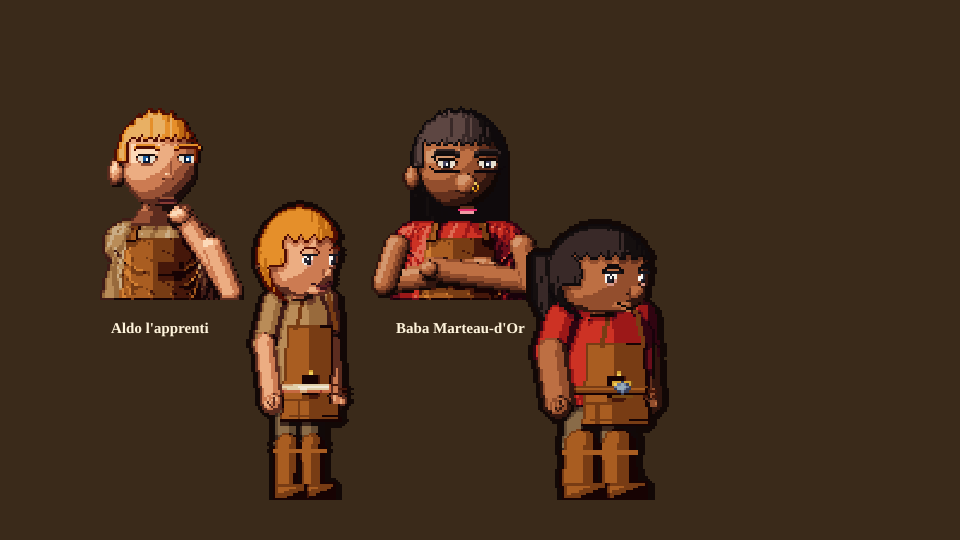
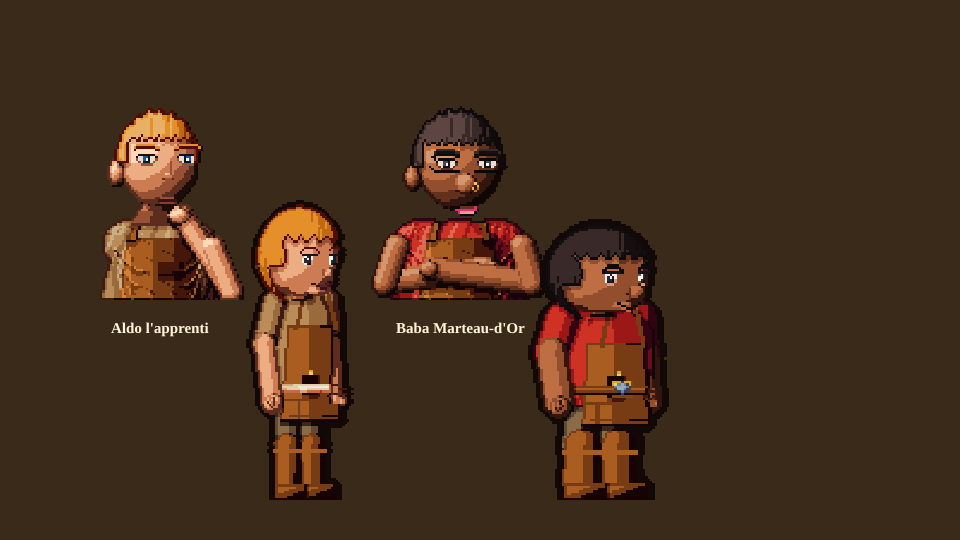
Baba Marteau-d'Or aux cheveux courts ; planche 12 validée
Claude-Session: https://claude.ai/code/session_018kbaP56NxxNMUzmj9EfKBC

Changed region(s): [[0.4062, 0.2074, 0.5312, 0.4148], [0.5312, 0.4444, 0.5938, 0.5926]]

diff --git a/src/corpsHD.js b/src/corpsHD.js
@@ -47,7 +47,7 @@ const FIGURANTS = {
   pillarde: { race: 'humain', nom: 'Pillarde', feminin: true, costume: 'passeur', habit: 0x8a4a2a, cheveux: 0x1a1410, cape: 0x6a4a30, peau: 3, niveau: 1, fache: true },
   // (v0.82, étape 10b) les forgerons du comptoir
   aldo: { race: 'humain', nom: "Aldo l'apprenti", costume: 'forgeron', habit: 0x8a6a4a, cheveux: 0xa86a2a, coiffure: 'court', peau: 1, niveau: 0, buste: true },
-  baba: { race: 'nain', nom: "Baba Marteau-d'Or", feminin: true, costume: 'forgeron', habit: 0x8a2a2a, cheveux: 0x141010, coiffure: 'long', peau: 3, niveau: 1, buste: true, marques: ['khol', 'anneauNez'] },
+  baba: { race: 'nain', nom: "Baba Marteau-d'Or", feminin: true, costume: 'forgeron', habit: 0x8a2a2a, cheveux: 0x141010, coiffure: 'court', peau: 3, niveau: 1, buste: true, marques: ['khol', 'anneauNez'] },
   mendiant: { race: 'humain', nom: 'Le mendiant', costume: 'mendiant', habit: 0x6a6252, cheveux: 0x8a8a80, cape: 0x4a4236, barbe: 'pleine', niveau: 0 },
 };
 

diff --git a/docs/game-design.md b/docs/game-design.md
@@ -333,7 +333,7 @@ Chaque étape doit donner une version **jouable**.
 | v 0.79 | **Les nouvelles provisions dans le jeu** (planche 10 validée le 18/10) | Ration, gourde, flèches, potion, bandages, torche, corde, antidote, cape chaude, bouclier, amulette, fer, cuir, bois et fil d'or sont dessinés en 32 × 32 et affichés à la taille des anciennes icônes : deux fois plus de détails partout (étals, comptoir, commandes, récits). Les armes gardent leur dessin. |
 | v 0.80 | **Des repères peints en pixel art** (planche 11 v2 validée le 18/10) | Les repères au loin des récits ne sont plus des silhouettes pâles mais de vrais dessins dont on voit les matériaux (`reperesHD.js`) : la pyramide en gradins de blocs de grès, son pyramidion doré, son obélisque gravé et ses colonnes ; le fort des orcs en rondins taillés en pointe, liés de fer, avec sa tour de guet, sa bannière rouge au crâne, des crânes sur des piques et des torches ; les Mines Rouges avec leur paroi sombre veinée de minerai qui luit, l'échafaudage, la poulie et son seau, les chariots de minerai, les lanternes ; la porte de Khaz-Durim en bronze et runes d'or entre deux rois nains de pierre, avec ses braseros ; le moulin de pierre et ses ailes de toile ; la chaumière en torchis et colombages, au toit de chaume, et son jardin de simples ; l'abbaye, sa rosace et son clocher ; les meules de foin et une porte ronde de hobbit ; le vieux chêne creux et la cabane de rondins du bûcheron (hache plantée dans la souche) ; le pont de moellons, sa mousse, le panneau du péage et des os sous l'arche ; les totems peints, à plumes, et la hutte de peaux ; le chevalement de mine, sa roue, son câble, l'entrée étayée et le wagonnet ; les arches de marbre et l'arbre argenté ; le lac, son ponton et sa barque ; les tours de cristal d'Opale reliées par des ponts ; la tour de la Bibliothèque et ses livres qui volent ; le squelette géant à demi enfoui ; la tour de guet naine enneigée ; le cairn, ses fanions de prière et le chariot renversé. Le fort et les mines se détachent maintenant du fond rouge. |
 | v 0.81 | **Elfes majestueux, mages plus riches, lieux qui font peur** (planche 11 v3 validée le 18/10, sauf deux retouches faites en v0.82) | Demandes du 18/10. **Sanctuaire des Elfes façon Lothlórien** : un mallorn géant au tronc d'argent, trois étages de feuilles d'or en touffes, un talan blanc et sa maison aux fenêtres de lumière, l'escalier qui tourne autour du tronc et ses lanternes, des lueurs bleues qui flottent, d'autres mallorns autour. **Lac des Lunes façon Fondcombe** : la vallée entre des falaises à strates et leurs sapins, trois cascades, la maison en terrasses de pierre claire aux fenêtres en arc dorées, deux tours fines, un pont en arches, des arbres d'automne. **Cité d'Opale** : un rempart de cristal et sa porte d'or, une forêt de flèches et de coupoles, la grande tour et son anneau d'or qui flotte, des éclats de cristal suspendus, des ponts de lumière. **Bibliothèque** : la grande tour et ses contreforts, deux tourelles, l'escalier qui s'enroule, un livre géant ouvert qui flotte au sommet, des rochers enchaînés, des piles de livres ; les livres qui volent ont maintenant une couverture et des pages. **Terres Désolées** : trois carcasses (le grand squelette, une petite cage thoracique, un crâne cornu sur une pique), des os partout, deux vautours perchés et trois qui tournent dans le ciel. **Col des Hurlements** : un ciel lourd, des crocs de roche noire, une lune pâle, deux loups noirs qui hurlent sur l'éperon, des arbres morts tordus, des crânes sur des pieux, une bannière déchirée, le vent qui siffle. **Pics Gelés** : une aiguille de roche immense, la tour naine perchée tout en haut, un pont de corde vers un autre pic, une mer de nuages en dessous, des stalactites de glace, une bannière gelée tendue par le vent, le blizzard. **Les arbres du plan moyen sont peints** eux aussi (pommiers, saules, cyprès, chênes, sapins enneigés, mallorns, arbres d'automne, cactus, colonnes, pieux). |
-| v 0.82 | **La forge chez soi (10b, planche 12 à valider)** | Au lendemain du saut d'un an (★3), Garrick propose la forge ; on la construit (300 p.) depuis l'arrière-boutique ou le bureau (nouveau tiroir « La forge »), les ouvriers la montent la nuit. **Aldo** (apprenti humain, 6 p./nuit, une arme toutes les deux nuits, puis compagnon après 8 armes et ouvrier confirmé après 20) et **Baba Marteau-d'Or** (maîtresse naine du sud, khôl et anneau d'or au nez, 12 p./nuit, 2 armes par nuit, dès ★4) en tablier de cuir. Le soir, on clique sur les armes à forger (recettes validées ; les matériaux sont pris tout de suite, on peut vider la commande) ; elles sortent la nuit et arrivent sur le râtelier, avec parfois du **bel ouvrage** (30 % pour Baba, 8 → 24 % pour Aldo) : il brille sur le râtelier, s'use deux fois moins vite et donne +1 relation. **Thorgal vend en gros** à qui a une forge (lots de 5 fer, cuir ou bois à −30 %). **Côté ombre**, la forge fabrique la lame empoisonnée (dague + poison), la lame de lune noire (2 fer + poudre de lune noire) et les griffes de l'ombre (griffes + passe-partout), que les Bannis commandent au marché noir (le Passeur n'en vend pas). Retouches de la planche 11 : les falaises de Fondcombe ont un bord extérieur naturel ; le pont des Pics Gelés arrive sur un ponton calé au sommet du pic de droite. |
+| v 0.82 | **La forge chez soi (10b, planche 12 validée le 18/10 ; Baba aux cheveux courts)** | Au lendemain du saut d'un an (★3), Garrick propose la forge ; on la construit (300 p.) depuis l'arrière-boutique ou le bureau (nouveau tiroir « La forge »), les ouvriers la montent la nuit. **Aldo** (apprenti humain, 6 p./nuit, une arme toutes les deux nuits, puis compagnon après 8 armes et ouvrier confirmé après 20) et **Baba Marteau-d'Or** (maîtresse naine du sud, khôl et anneau d'or au nez, 12 p./nuit, 2 armes par nuit, dès ★4) en tablier de cuir. Le soir, on clique sur les armes à forger (recettes validées ; les matériaux sont pris tout de suite, on peut vider la commande) ; elles sortent la nuit et arrivent sur le râtelier, avec parfois du **bel ouvrage** (30 % pour Baba, 8 → 24 % pour Aldo) : il brille sur le râtelier, s'use deux fois moins vite et donne +1 relation. **Thorgal vend en gros** à qui a une forge (lots de 5 fer, cuir ou bois à −30 %). **Côté ombre**, la forge fabrique la lame empoisonnée (dague + poison), la lame de lune noire (2 fer + poudre de lune noire) et les griffes de l'ombre (griffes + passe-partout), que les Bannis commandent au marché noir (le Passeur n'en vend pas). Retouches de la planche 11 : les falaises de Fondcombe ont un bord extérieur naturel ; le pont des Pics Gelés arrive sur un ponton calé au sommet du pic de droite. |
 | 10b | **La forge chez soi** (validé) | À ★3 (le saut d'un an), on peut construire une forge dans l'arrière-boutique et engager un premier forgeron ; un second à ★4. Chaque nuit, ils fabriquent des armes avec les matériaux en stock. |
 | 10c | **La rue et le familier** (validé : le chat chasse les rats de la réserve et prévient parfois de la garde) | La rue du comptoir s'agrandit : on y marche avec son personnage jusqu'aux lieux du quartier (marché, banque, forge, fontaine, plus tard le petit bar), en plus des raccourcis depuis la maison. En s'y promenant le soir, on croise le chat de gouttière : on le nourrit quelques soirs de suite, et il nous adopte (premier familier). |
 | 11 | **Aider pendant l'aventure** | Messages de détresse, le grand aigle, les mercenaires. |
@@ -614,7 +614,7 @@ Relevé de toutes les idées exprimées au fil de la conversation et pas encore 
   (Choisi parce que ça garde les recettes validées, fait vivre la relation avec Thorgal, et pousse
   à prévoir ses achats plutôt qu'à acheter au jour le jour.)
 - **Les forgerons** : **Aldo**, l'apprenti humain ; **Baba Marteau-d'Or**, la maîtresse naine, au
-  visage du sud et de l'orient (peau brune, cheveux noirs tressés, yeux soulignés de khôl,
+  visage du sud et de l'orient (peau brune, cheveux noirs courts, yeux soulignés de khôl,
   anneau d'or au nez).
 - **Les armes interdites** : les trois proposées (lame empoisonnée, lame de lune noire, griffes de
   l'ombre), pour l'instant.
